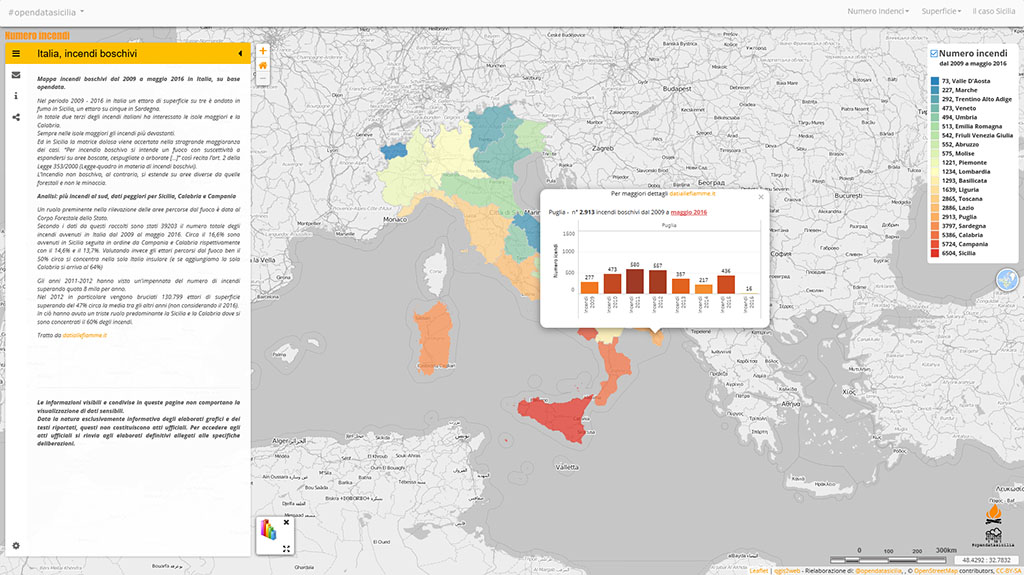
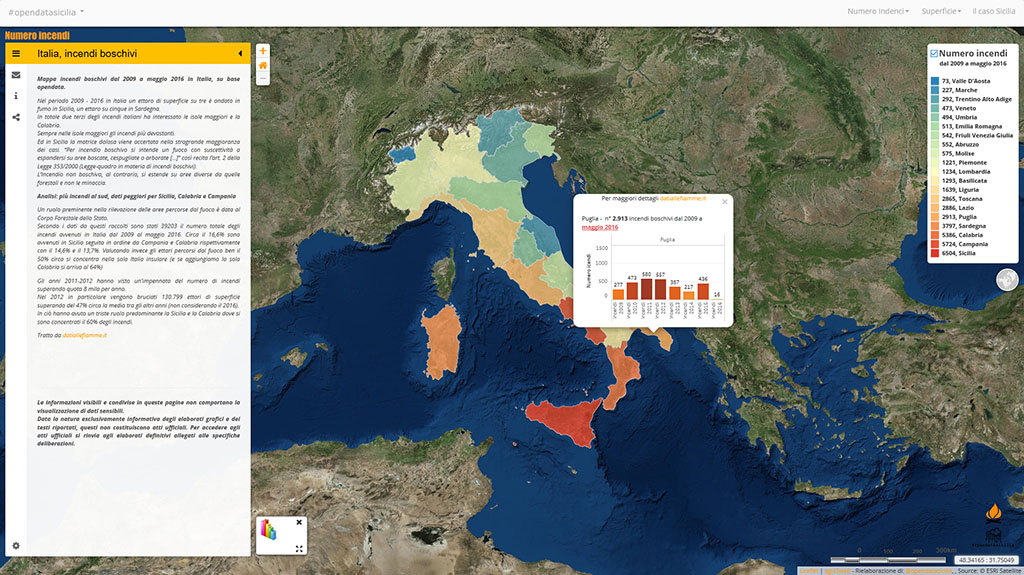
index upgrade

diff --git a/datiallefiamme/index.html b/datiallefiamme/index.html
@@ -73,8 +73,6 @@
 
  <!-- css box resaize -->
 <link rel="stylesheet" href="https://maxcdn.bootstrapcdn.com/bootstrap/3.3.4/css/bootstrap.css">
-<!-- <link rel="stylesheet" href="https://maxcdn.bootstrapcdn.com/bootstrap/3.3.4/css/bootstrap-theme.css">
- <link rel="stylesheet" href="https://cdnjs.cloudflare.com/ajax/libs/jqueryui/1.11.4/jquery-ui.css" />-->
 <link href="lib/css/jquery.jscrollpane.css" rel="stylesheet" type="text/css">
 <link href="lib/css/Leaflet.ResizableControl.css" rel="stylesheet" type="text/css">
 <link href="lib/css/iframe.css" rel="stylesheet" type="text/css">
@@ -255,11 +253,12 @@ map.attributionControl.addAttribution('<a href="https://github.com/tomchadwin/qg
 var bounds_group = new L.featureGroup([]);
 <!-- mappe di base -->	  
 var basemaps = [
+L.tileLayer('https://server.arcgisonline.com/ArcGIS/rest/services/World_Imagery/MapServer/tile/{z}/{y}/{x}', { attribution: 'Source: &#9400; ESRI Satellite', minZoom: 6,  maxZoom: 7, maxNativeZoom: 7, label: 'ESRI Satellite'}),
+
 	   L.tileLayer('http://a.tiles.wmflabs.org/bw-mapnik/{z}/{x}/{y}.png', {attribution: '&#9400; <a href="http://openstreetmap.org">OpenStreetMap</a> contributors, <a href="http://creativecommons.org/licenses/by-sa/2.0/">CC-BY-SA</a>',minZoom: 6,  maxZoom: 7, maxNativeZoom: 7,label: 'OpenStreetMap monochrome'}),
 
-L.tileLayer('https://mt1.google.com/vt/lyrs=p&x={x}&y={y}&z={z}', { attribution: 'Dati cartografici &#9400; 2017 Google - <a href="https://www.google.com/intl/it_it/help/terms_maps.html">Termini</a>', minZoom: 6,  maxZoom: 7, maxNativeZoom: 7, label: 'Google Terrain'}),
-	  
-L.tileLayer('https://server.arcgisonline.com/ArcGIS/rest/services/World_Imagery/MapServer/tile/{z}/{y}/{x}', { attribution: 'Source: &#9400; ESRI Satellite', minZoom: 6,  maxZoom: 7, maxNativeZoom: 7, label: 'ESRI Satellite'}), ];
+L.tileLayer('https://mt1.google.com/vt/lyrs=p&x={x}&y={y}&z={z}', { attribution: 'Dati cartografici &#9400; 2017 Google - <a href="https://www.google.com/intl/it_it/help/terms_maps.html">Termini</a>', minZoom: 6,  maxZoom: 7, maxNativeZoom: 7, label: 'Google Terrain'}), 
+ ];
 
 <!-- box resaize -->
 var html ="<div class=\"iframe-container\"><iframe src=\"regioni\/grafico_ita.html\" frameborder=\"0\" scrolling=\"0\"  style=\overflow:hidden;width:610px; height:400px;\" <\/iframe><\/div>" ;
